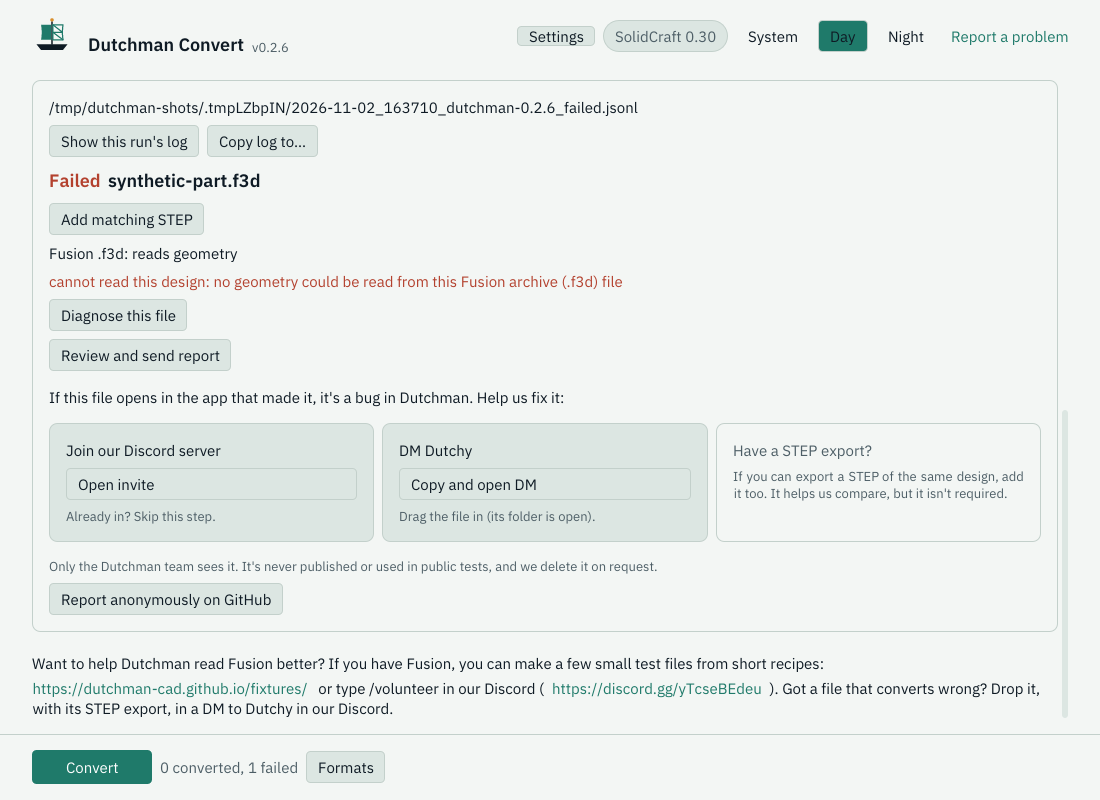
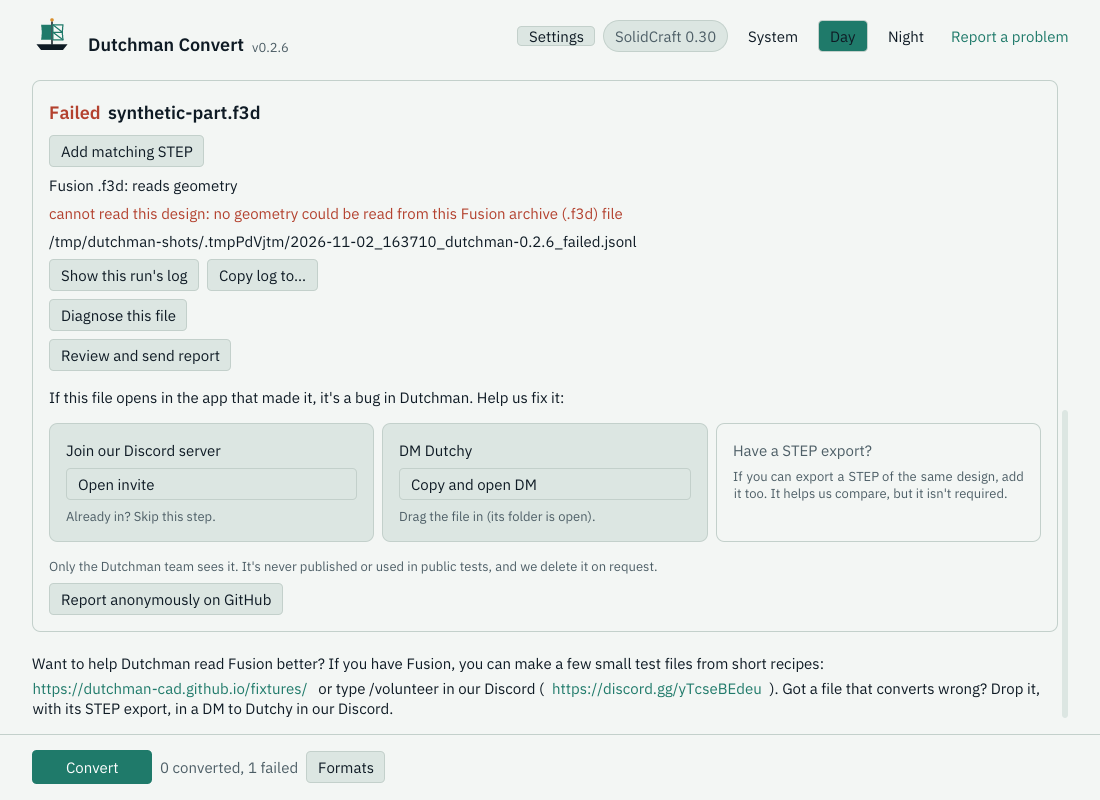
Show the log and its buttons in the result card under the error

Changed region(s): [[0.0309, 0.125, 0.5873, 0.375]]

diff --git a/crates/dutchman-gui/src/app.rs b/crates/dutchman-gui/src/app.rs
@@ -1880,12 +1880,11 @@ impl App {
             };
             let shown = card(ui, &p, |ui| {
                 let policy = self.report_policy.policy();
-                if let Some(path) = self.row_logs.get(&index) {
-                    if let Err(message) = platform::log_controls(ui, path, log_ready) {
-                        self.notice = Some(message);
-                    }
-                }
-                let chosen = row_ui(ui, &p, index, row, file, policy, self.has_app, running);
+                let log = self
+                    .row_logs
+                    .get(&index)
+                    .map(|path| (path.as_path(), log_ready));
+                let chosen = row_ui(ui, &p, index, row, file, policy, self.has_app, running, log);
                 if let Some(chosen) = chosen {
                     action = Some(chosen);
                 }
@@ -1905,6 +1904,10 @@ impl App {
                 if let Some(row) = self.rows.get(index) {
                     self.doctor = Some(crate::doctor::Page::new(Some(row.input.clone())));
                 }
+                Ok(())
+            }
+            Some(Action::Notice(message)) => {
+                self.notice = Some(message);
                 Ok(())
             }
             Some(Action::Pick(pick)) => {
@@ -1982,6 +1985,8 @@ impl eframe::App for App {
 }
 
 enum Action {
+    /// Show this message.
+    Notice(String),
     Diagnose(usize),
     Check(usize),
     Open(PathBuf),
@@ -2007,6 +2012,7 @@ fn row_ui(
     policy: &ReportPolicy,
     has_app: bool,
     running: bool,
+    log: Option<(&Path, bool)>,
 ) -> Option<Action> {
     let mut action = None;
     let colour = match view.status {
@@ -2095,6 +2101,11 @@ fn row_ui(
     }
     if let Some(message) = &view.error {
         ui.label(RichText::new(message).color(p.danger));
+        if let Some((path, ready)) = log {
+            if let Err(message) = platform::log_controls(ui, path, ready) {
+                action = Some(Action::Notice(message));
+            }
+        }
         if ui
             .add_enabled(!running, egui::Button::new("Diagnose this file"))
             .clicked()
@@ -2111,6 +2122,11 @@ fn row_ui(
             }
         }
         return action;
+    }
+    if let Some((path, ready)) = log {
+        if let Err(message) = platform::log_controls(ui, path, ready) {
+            action = Some(Action::Notice(message));
+        }
     }
     if row.status == Status::Converted && row.report.is_some() {
         let output = row.output.as_deref().map(display).unwrap_or_default();
@@ -2510,6 +2526,7 @@ mod tests {
                             ReportPolicy::bundled(),
                             false,
                             false,
+                            None,
                         ) {
                             *chosen = true;
                         }
@@ -2957,6 +2974,7 @@ mod tests {
                     ReportPolicy::bundled(),
                     true,
                     false,
+                    None,
                 );
             });
         harness.run_steps(8);
@@ -3008,6 +3026,7 @@ mod tests {
                             ReportPolicy::bundled(),
                             true,
                             false,
+                            None,
                         );
                     });
                     ui.add_space(theme::SPACE_2);
@@ -3099,6 +3118,7 @@ mod tests {
                         ReportPolicy::bundled(),
                         true,
                         false,
+                        None,
                     );
                 });
             harness.run_steps(2);
